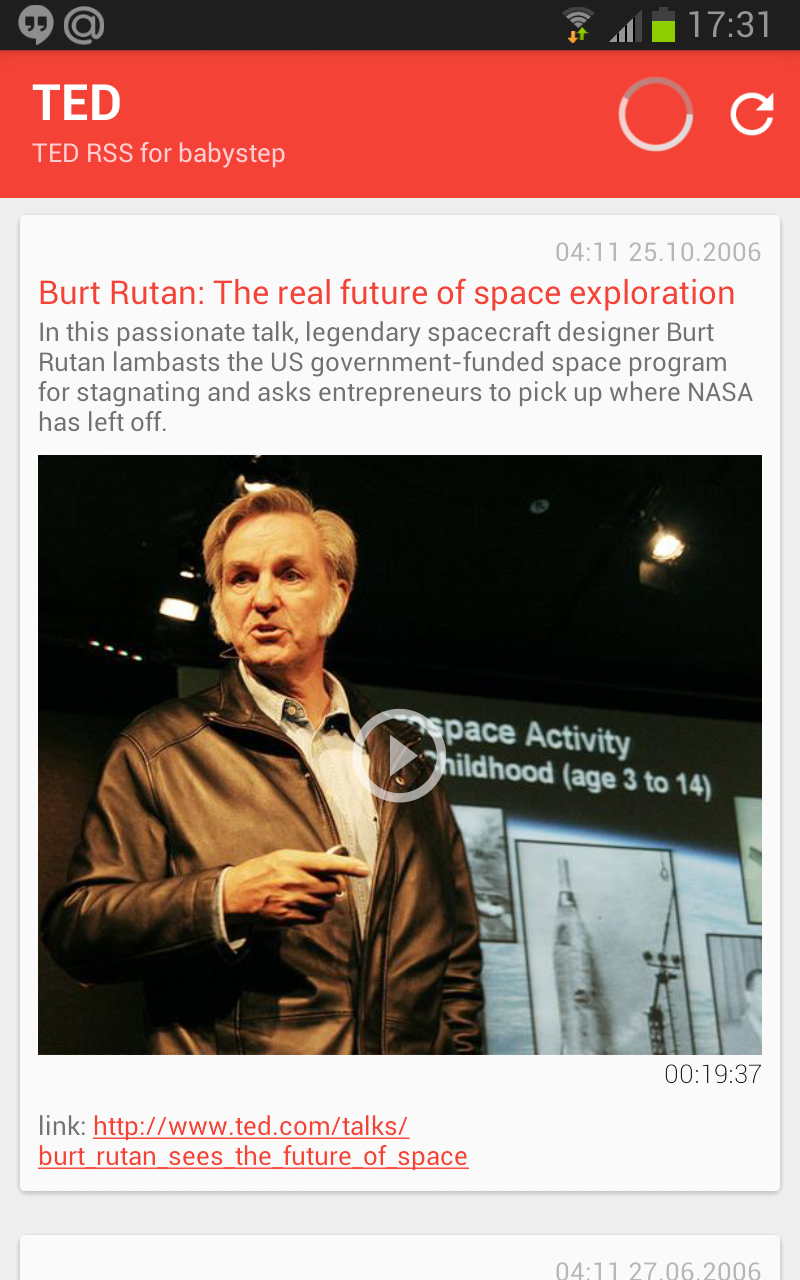
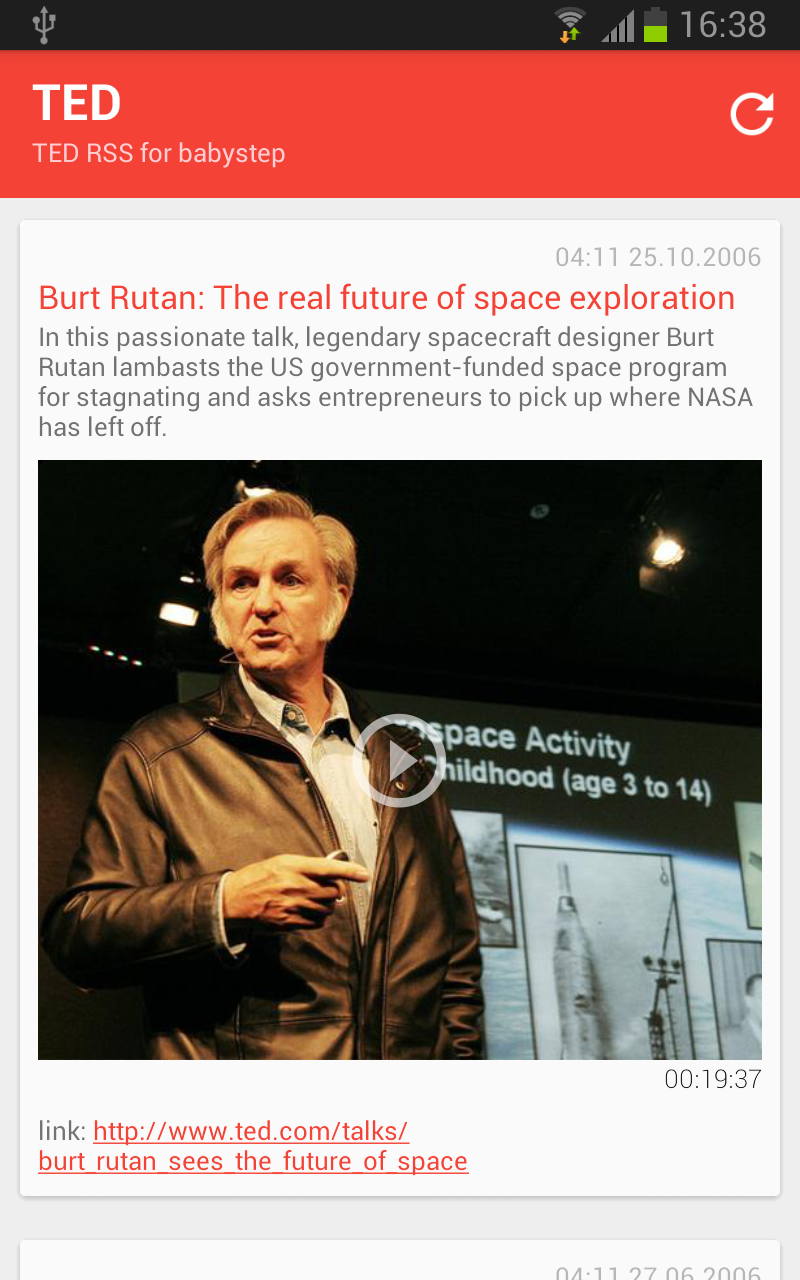
TED RSS. Sceond commit

diff --git a/app/src/main/java/com/wild/test/tedrss/services/RSSServiceHelper.java b/app/src/main/java/com/wild/test/tedrss/services/RSSServiceHelper.java
@@ -7,7 +7,10 @@ import android.content.Context;
 import android.content.Intent;
 import android.os.Bundle;
 import android.os.ResultReceiver;
-import android.util.Log;
+
+import java.util.ArrayList;
+import java.util.List;
+import java.util.UUID;
 
 public class RSSServiceHelper {
 
@@ -16,28 +19,37 @@ public class RSSServiceHelper {
     public static final String EXTRA_MESSAGE = "extra_message";
     private static RSSServiceHelper instance;
     private final Context context;
+    private static Object lock = new Object();
+    private List<Long> pendingRequests = new ArrayList<>();
 
     public static RSSServiceHelper getInstance(Context context) {
-        if (instance == null)
-            instance = new RSSServiceHelper(context);
+        synchronized (lock) {
+            if (instance == null)
+                instance = new RSSServiceHelper(context);
+        }
         return instance;
     }
 
-    public RSSServiceHelper(Context context) {
+    private RSSServiceHelper(Context context) {
         this.context = context;
     }
 
-    public void refreshRSS() {
+    public long refreshRSS() {
+        long requestId = generateRequestID();
+        pendingRequests.add(requestId);
+
         Intent srv = new Intent(context, RSSService.class);
-        srv.putExtra(RSSService.EXTRA_CALLBACK, createServiceCallback());
+        srv.putExtra(RSSService.EXTRA_CALLBACK, createServiceCallback(requestId));
         context.startService(srv);
+
+        return requestId;
     }
 
-    private ResultReceiver createServiceCallback() {
+    private ResultReceiver createServiceCallback(final long requestId) {
         ResultReceiver callback = new ResultReceiver(null) {
             @Override
             protected void onReceiveResult(int resultCode, Bundle resultData) {
-                Log.d("#ServiceHelper", "done loading");
+                pendingRequests.remove(requestId);
                 sendBroadcast(resultCode, resultData);
             }
         };
@@ -51,4 +63,14 @@ public class RSSServiceHelper {
             result.putExtra(EXTRA_MESSAGE, resultData.getString(RSSService.EXTRA_MESSAGE));
         context.sendBroadcast(result);
     }
+
+    private long generateRequestID() {
+        long requestId = UUID.randomUUID().getLeastSignificantBits();
+        return requestId;
+    }
+
+    public boolean isRequestPending(long requestId) {
+        return pendingRequests.contains(requestId);
+    }
+
 }

diff --git a/app/src/main/java/com/wild/test/tedrss/services/RSSService.java b/app/src/main/java/com/wild/test/tedrss/services/RSSService.java
@@ -8,16 +8,11 @@ import android.content.ContentValues;
 import android.content.Intent;
 import android.os.Bundle;
 import android.os.ResultReceiver;
-import android.util.Log;
 
-import com.wild.test.tedrss.domain.RSS;
-import com.wild.test.tedrss.domain.RssItem;
+import com.wild.test.tedrss.rest.resources.RSS;
 import com.wild.test.tedrss.provider.RSSContract;
 import com.wild.test.tedrss.rest.RSSApiController;
 import com.wild.test.tedrss.rest.TEDRssApi;
-
-import java.util.ArrayList;
-import java.util.List;
 
 import retrofit.Callback;
 import retrofit.RetrofitError;
@@ -25,7 +20,6 @@ import retrofit.client.Response;
 
 public class RSSService extends IntentService {
 
-    private static final String LOG_TAG = "#RSSService";
     public static final String EXTRA_CALLBACK = "extra_callback";
     public static final String EXTRA_MESSAGE = "extra_message";
     public static final int RESULT_OK = 1;
@@ -46,16 +40,13 @@ public class RSSService extends IntentService {
             @Override
             public void success(RSS rss, Response response) {
                 refreshProvider(rss);
-                Log.d("#Service", "callback send ok");
                 callback.send(RESULT_OK, null);
             }
 
             @Override
             public void failure(RetrofitError error) {
-                Log.d(LOG_TAG, "Retrofit error: " + error.getMessage());
                 Bundle bundle = new Bundle();
                 bundle.putString(EXTRA_MESSAGE, error.getMessage());
-                Log.d("#Service", "callback send error");
                 callback.send(RESULT_ERROR, bundle);
             }
         });
@@ -67,7 +58,7 @@ public class RSSService extends IntentService {
         for (int i = 0; i < size; i++) {
             values[i] = rss.channel.itemList.get(i).getValues();
         }
+        getContentResolver().delete(RSSContract.CONTENT_URI, null, null);
         getContentResolver().bulkInsert(RSSContract.CONTENT_URI, values);
-        Log.d("#RSSService", "send to bulkInsert " + size + " items");
     }
 }

diff --git a/app/src/main/java/com/wild/test/tedrss/adapters/RSSAdapter.java b/app/src/main/java/com/wild/test/tedrss/adapters/RSSAdapter.java
@@ -6,10 +6,8 @@ package com.wild.test.tedrss.adapters;
 
 import android.content.Context;
 import android.database.Cursor;
-import android.media.MediaPlayer;
 import android.net.Uri;
 import android.support.v7.widget.RecyclerView;
-import android.util.Log;
 import android.view.LayoutInflater;
 import android.view.View;
 import android.view.ViewGroup;
@@ -18,7 +16,6 @@ import android.view.animation.AnimationUtils;
 import android.widget.ImageView;
 import android.widget.MediaController;
 import android.widget.TextView;
-import android.widget.Toast;
 import android.widget.VideoView;
 
 import com.squareup.picasso.Picasso;
@@ -32,13 +29,10 @@ import java.util.Locale;
 public class RSSAdapter extends RecyclerView.Adapter<RSSAdapter.RSSItemViewHolder> {
 
     private final PlayController playController;
-    private Context context;
     private Cursor data;
     private static final SimpleDateFormat sdf = new SimpleDateFormat("HH:mm dd.MM.yyyy", Locale.getDefault());
-    private static RSSItemViewHolder currentPlay = null;
 
     public RSSAdapter(Context context) {
-        this.context = context;
         playController = new PlayController(context);
     }
 
@@ -66,18 +60,6 @@ public class RSSAdapter extends RecyclerView.Adapter<RSSAdapter.RSSItemViewHolde
     @Override
     public void onAttachedToRecyclerView(RecyclerView recyclerView) {
         super.onAttachedToRecyclerView(recyclerView);
-    }
-
-    protected static void startPlay(RSSItemViewHolder holder) {
-        if (currentPlay != null)
-            stopCurrentPlay();
-    }
-
-    private static void stopCurrentPlay() {
-        currentPlay.videoView.stopPlayback();
-        currentPlay.image.setVisibility(View.VISIBLE);
-        currentPlay.videoView.setVisibility(View.GONE);
-        currentPlay = null;
     }
 
     public static class RSSItemViewHolder extends RecyclerView.ViewHolder {

diff --git a/app/src/main/java/com/wild/test/tedrss/MainActivity.java b/app/src/main/java/com/wild/test/tedrss/MainActivity.java
@@ -14,8 +14,10 @@ import com.wild.test.tedrss.services.RSSServiceHelper;
 
 public class MainActivity extends AppCompatActivity {
 
+    private static final String REQUEST_ID = "request_id";
     private BroadcastReceiver receiver;
     private ProgressBar progress;
+    private long requestId;
 
     @Override
     protected void onCreate(Bundle savedInstanceState) {
@@ -34,12 +36,20 @@ public class MainActivity extends AppCompatActivity {
                     .add(R.id.container, new RSSFragment())
                     .commit();
             refreshRss();
+        } else {
+            requestId = savedInstanceState.getLong(REQUEST_ID, -1);
+            if (RSSServiceHelper.getInstance(this).isRequestPending(requestId))
+                showProgress();
         }
     }
 
     @Override
     protected void onResume() {
         super.onResume();
+        if (requestId > 0 && !RSSServiceHelper.getInstance(this).isRequestPending(requestId)) {
+            hideProgress();
+            requestId = -1;
+        }
         registerReceiver(receiver, new IntentFilter(RSSServiceHelper.BROADCAST_REQUEST_RESULT));
     }
 
@@ -56,14 +66,21 @@ public class MainActivity extends AppCompatActivity {
         receiver = new BroadcastReceiver() {
             @Override
             public void onReceive(Context context, Intent intent) {
+                requestId = -1;
                 hideProgress();
             }
         };
     }
 
+    @Override
+    protected void onSaveInstanceState(Bundle outState) {
+        super.onSaveInstanceState(outState);
+        outState.putLong(REQUEST_ID, requestId);
+    }
+
     private void refreshRss() {
         showProgress();
-        RSSServiceHelper.getInstance(this).refreshRSS();
+        requestId = RSSServiceHelper.getInstance(this).refreshRSS();
     }
 
     private void showProgress() {

diff --git a/app/src/main/java/com/wild/test/tedrss/provider/RSSProvider.java b/app/src/main/java/com/wild/test/tedrss/provider/RSSProvider.java
@@ -32,7 +32,6 @@ public class RSSProvider extends ContentProvider{
 
     @Override
     public Cursor query(Uri uri, String[] projection, String selection, String[] selectionArgs, String sortOrder) {
-        Log.d("#RSSProvider", "query " + uri);
         Cursor c;
         SQLiteDatabase db = dbHelper.getReadableDatabase();
         switch (matcher.match(uri)) {
@@ -61,7 +60,12 @@ public class RSSProvider extends ContentProvider{
 
     @Override
     public int delete(Uri uri, String selection, String[] selectionArgs) {
-        throw new IllegalArgumentException("Delete not supported");
+        int match = matcher.match(uri);
+        if (match != RSS_MATCH)
+            throw new IllegalArgumentException("Unknown uri " + uri);
+        SQLiteDatabase db = dbHelper.getWritableDatabase();
+        int cnt = db.delete(RSSContract.RSS, null, null);
+        return cnt;
     }
 
     @Override
@@ -75,16 +79,12 @@ public class RSSProvider extends ContentProvider{
         int counter = 0;
         db.beginTransaction();
         try {
-            //delete all
-            db.delete(RSSContract.RSS, null, null);
-            //insert
             for (ContentValues val: values) {
                 db.insert(RSSContract.RSS, null, val);
                 counter++;
             }
             db.setTransactionSuccessful();
             if (counter > 0) {
-                Log.d("#RSSProvider", "inserted " + counter);
                 getContext().getContentResolver().notifyChange(uri, null);
             }
             return 0;
@@ -92,6 +92,8 @@ public class RSSProvider extends ContentProvider{
             db.endTransaction();
         }
     }
+
+
 
     private class DBOpenHelper extends SQLiteOpenHelper {
 

diff --git a/app/src/main/java/com/wild/test/tedrss/RSSFragment.java b/app/src/main/java/com/wild/test/tedrss/RSSFragment.java
@@ -12,7 +12,6 @@ import android.os.Bundle;
 import android.support.annotation.Nullable;
 import android.support.v7.widget.LinearLayoutManager;
 import android.support.v7.widget.RecyclerView;
-import android.util.Log;
 import android.view.LayoutInflater;
 import android.view.View;
 import android.view.ViewGroup;
@@ -50,20 +49,16 @@ public class RSSFragment extends Fragment implements LoaderManager.LoaderCallbac
 
     @Override
     public Loader<Cursor> onCreateLoader(int id, Bundle args) {
-        Log.d("#Fragment", "create loader");
-        return new CursorLoader(getActivity(), RSSContract.CONTENT_URI, null, null, null, null);
+        return new CursorLoader(getActivity(), RSSContract.CONTENT_URI, null, null, null, RSSContract.PUBDATE + " desc");
     }
 
     @Override
     public void onLoadFinished(Loader<Cursor> loader, Cursor data) {
-        Log.d("#Fragment", "load finished. size: " + data.getCount());
         adapter.swapCursor(data);
-        //recyclerView.setAdapter(new RSSAdapter(data));
     }
 
     @Override
     public void onLoaderReset(Loader<Cursor> loader) {
-        Log.d("#Fragment", "loader reset");
         adapter.swapCursor(null);
     }
 }

diff --git a/app/src/main/java/com/wild/test/tedrss/rest/resources/RssItem.java b/app/src/main/java/com/wild/test/tedrss/rest/resources/RssItem.java
@@ -1,4 +1,4 @@
-package com.wild.test.tedrss.domain;
+package com.wild.test.tedrss.rest.resources;
 /*
  * Created by Wild on 15.05.2015.
  */
@@ -45,8 +45,6 @@ public class RssItem {
             return sdf.parse(pubDate).getTime();
         } catch (ParseException e) {
             e.printStackTrace();
-            Log.e("#RssItem", "error date parse " + pubDate + ": " + e.getMessage());
-            Log.e("#RssItem", "now date: " + sdf.format(new Date()));
             return Long.valueOf(0);
         }
     }

diff --git a/app/src/main/java/com/wild/test/tedrss/rest/TEDRssApi.java b/app/src/main/java/com/wild/test/tedrss/rest/TEDRssApi.java
@@ -3,7 +3,7 @@ package com.wild.test.tedrss.rest;
  * Created by Wild on 15.05.2015.
  */
 
-import com.wild.test.tedrss.domain.RSS;
+import com.wild.test.tedrss.rest.resources.RSS;
 
 import retrofit.Callback;
 import retrofit.http.GET;

diff --git a/app/src/main/java/com/wild/test/tedrss/rest/resources/RSS.java b/app/src/main/java/com/wild/test/tedrss/rest/resources/RSS.java
@@ -1,4 +1,4 @@
-package com.wild.test.tedrss.domain;
+package com.wild.test.tedrss.rest.resources;
 
 import org.simpleframework.xml.Element;
 import org.simpleframework.xml.Root;

diff --git a/app/src/main/java/com/wild/test/tedrss/rest/resources/Channel.java b/app/src/main/java/com/wild/test/tedrss/rest/resources/Channel.java
@@ -1,4 +1,4 @@
-package com.wild.test.tedrss.domain;
+package com.wild.test.tedrss.rest.resources;
 /*
  * Created by Wild on 15.05.2015.
  */

diff --git a/app/src/main/java/com/wild/test/tedrss/rest/resources/Enclosure.java b/app/src/main/java/com/wild/test/tedrss/rest/resources/Enclosure.java
@@ -1,4 +1,4 @@
-package com.wild.test.tedrss.domain;
+package com.wild.test.tedrss.rest.resources;
 /*
  * Created by Wild on 15.05.2015.
  */

diff --git a/app/src/main/java/com/wild/test/tedrss/rest/resources/Image.java b/app/src/main/java/com/wild/test/tedrss/rest/resources/Image.java
@@ -1,4 +1,4 @@
-package com.wild.test.tedrss.domain;
+package com.wild.test.tedrss.rest.resources;
 /*
  * Created by Wild on 15.05.2015.
  */
